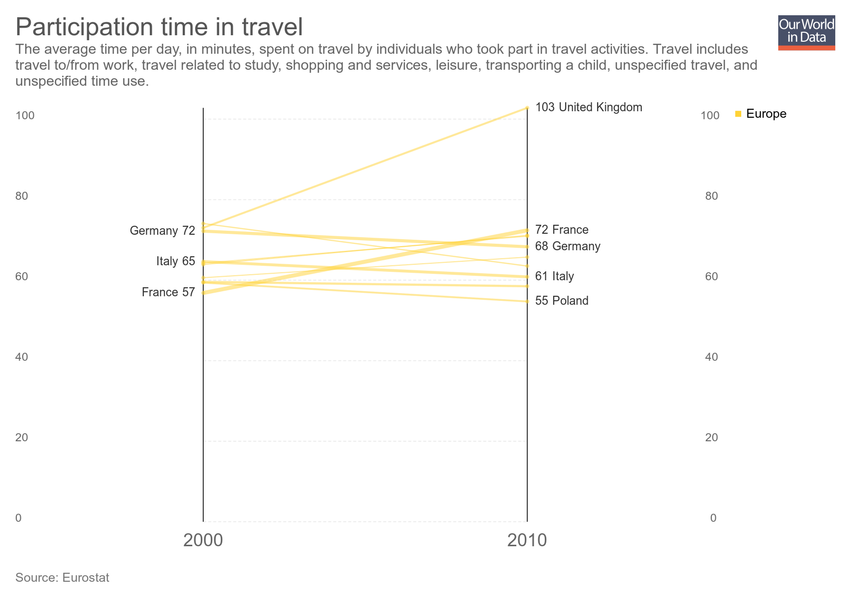
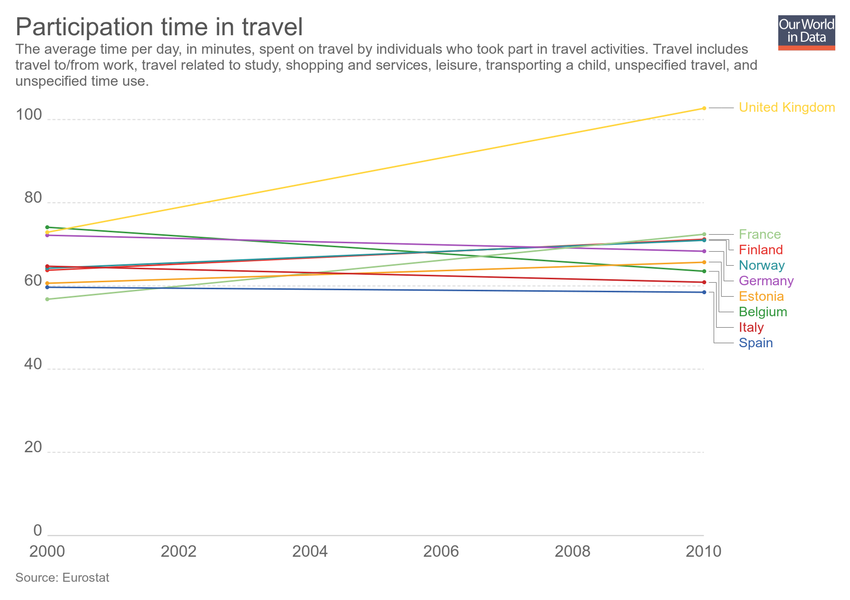
Updating chart participation-time-in-travel

diff --git a/grapher/participation-time-in-travel.html b/grapher/participation-time-in-travel.html
@@ -1,4 +1,4 @@
-<!doctype html><html><head><meta name="viewport" content="width=device-width, initial-scale=1" /><title>Participation time in travel - Our World in Data</title><meta name="description" content="The average time per day, in minutes, spent on travel by individuals who took part in travel activities. Travel includes travel to/from work, travel related to study, shopping and services, leisure, transporting a child, unspecified travel, and unspecified time use." /><link rel="canonical" href="https://ourworldindata.org/grapher/participation-time-in-travel" /><meta property="fb:app_id" content="1149943818390250" /><meta property="og:url" content="https://ourworldindata.org/grapher/participation-time-in-travel" /><meta property="og:title" content="Participation time in travel" /><meta property="og:description" content="The average time per day, in minutes, spent on travel by individuals who took part in travel activities. Travel includes travel to/from work, travel related to study, shopping and services, leisure, transporting a child, unspecified travel, and unspecified time use." /><meta property="og:image" content="https://ourworldindata.org/grapher/exports/participation-time-in-travel.png?v=4" /><meta property="og:image:width" content="850" /><meta property="og:image:height" content="600" /><meta property="og:site_name" content="Our World in Data" /><meta name="twitter:card" content="summary_large_image" /><meta name="twitter:site" content="@OurWorldInData" /><meta name="twitter:creator" content="@OurWorldInData" /><meta name="twitter:title" content="Participation time in travel" /><meta name="twitter:description" content="The average time per day, in minutes, spent on travel by individuals who took part in travel activities. Travel includes travel to/from work, travel related to study, shopping and services, leisure, transporting a child, unspecified travel, and unspecified time use." /><meta name="twitter:image" content="https://ourworldindata.org/grapher/exports/participation-time-in-travel.png?v=4" /><style>
+<!doctype html><html><head><meta name="viewport" content="width=device-width, initial-scale=1" /><title>Participation time in travel - Our World in Data</title><meta name="description" content="The average time per day, in minutes, spent on travel by individuals who took part in travel activities. Travel includes travel to/from work, travel related to study, shopping and services, leisure, transporting a child, unspecified travel, and unspecified time use." /><link rel="canonical" href="https://ourworldindata.org/grapher/participation-time-in-travel" /><meta property="fb:app_id" content="1149943818390250" /><meta property="og:url" content="https://ourworldindata.org/grapher/participation-time-in-travel" /><meta property="og:title" content="Participation time in travel" /><meta property="og:description" content="The average time per day, in minutes, spent on travel by individuals who took part in travel activities. Travel includes travel to/from work, travel related to study, shopping and services, leisure, transporting a child, unspecified travel, and unspecified time use." /><meta property="og:image" content="https://ourworldindata.org/grapher/exports/participation-time-in-travel.png?v=5" /><meta property="og:image:width" content="850" /><meta property="og:image:height" content="600" /><meta property="og:site_name" content="Our World in Data" /><meta name="twitter:card" content="summary_large_image" /><meta name="twitter:site" content="@OurWorldInData" /><meta name="twitter:creator" content="@OurWorldInData" /><meta name="twitter:title" content="Participation time in travel" /><meta name="twitter:description" content="The average time per day, in minutes, spent on travel by individuals who took part in travel activities. Travel includes travel to/from work, travel related to study, shopping and services, leisure, transporting a child, unspecified travel, and unspecified time use." /><meta name="twitter:image" content="https://ourworldindata.org/grapher/exports/participation-time-in-travel.png?v=5" /><style>
         html, body {
             height: 100%;
             margin: 0;
@@ -20,8 +20,8 @@
         }
     </style><noscript><style>
                     figure { display: none !important; }
-                </style></noscript><link rel="stylesheet" href="https://ourworldindata.org/grapher/assets/commons.bundle.b9f051796dbbbb7e5139.css" /><link rel="preload" href="/grapher/data/variables/97635+72+123.json?v=4" as="fetch" crossorigin /></head><body class="singleChart"><figure data-grapher-src="/grapher/participation-time-in-travel"></figure><noscript id="fallback"><img src="/grapher/exports/participation-time-in-travel.svg" /><p>Interactive visualization requires JavaScript</p></noscript><script src="https://cdn.polyfill.io/v2/polyfill.min.js?features=es6,fetch"></script><script src="https://ourworldindata.org/grapher/assets/commons.bundle.b9f051796dbbbb7e5139.js"></script><script src="https://ourworldindata.org/grapher/assets/charts.bundle.b9f051796dbbbb7e5139.js"></script><script>
-        var jsonConfig = {"id":2835,"map":{"projection":"World","colorSchemeLabels":[],"colorSchemeValues":[],"customNumericColors":[],"customCategoryColors":{},"customCategoryLabels":{},"customHiddenCategories":{}},"tab":"chart","slug":"participation-time-in-travel","type":"SlopeChart","title":"Participation time in travel","xAxis":{"scaleType":"linear"},"yAxis":{"min":0,"scaleType":"linear"},"version":4,"subtitle":"The average time per day, in minutes, spent on travel by individuals who took part in travel activities. Travel includes travel to/from work, travel related to study, shopping and services, leisure, transporting a child, unspecified travel, and unspecified time use.","hasMapTab":false,"stackMode":"absolute","dimensions":[{"display":{"numDecimalPlaces":0},"property":"y","variableId":97635},{"display":{},"property":"size","variableId":72},{"display":{},"property":"color","variableId":123}],"hasChartTab":true,"isPublished":true,"selectedData":[],"addCountryMode":"add-country"};
+                </style></noscript><link rel="stylesheet" href="https://ourworldindata.org/grapher/assets/commons.bundle.b9f051796dbbbb7e5139.css" /><link rel="preload" href="/grapher/data/variables/97635.json?v=5" as="fetch" crossorigin /></head><body class="singleChart"><figure data-grapher-src="/grapher/participation-time-in-travel"></figure><noscript id="fallback"><img src="/grapher/exports/participation-time-in-travel.svg" /><p>Interactive visualization requires JavaScript</p></noscript><script src="https://cdn.polyfill.io/v2/polyfill.min.js?features=es6,fetch"></script><script src="https://ourworldindata.org/grapher/assets/commons.bundle.b9f051796dbbbb7e5139.js"></script><script src="https://ourworldindata.org/grapher/assets/charts.bundle.b9f051796dbbbb7e5139.js"></script><script>
+        var jsonConfig = {"id":2835,"map":{"projection":"World","colorSchemeLabels":[],"colorSchemeValues":[],"customNumericColors":[],"customCategoryColors":{},"customCategoryLabels":{},"customHiddenCategories":{}},"tab":"chart","slug":"participation-time-in-travel","type":"LineChart","title":"Participation time in travel","xAxis":{"scaleType":"linear"},"yAxis":{"min":0,"scaleType":"linear"},"version":5,"subtitle":"The average time per day, in minutes, spent on travel by individuals who took part in travel activities. Travel includes travel to/from work, travel related to study, shopping and services, leisure, transporting a child, unspecified travel, and unspecified time use.","hasMapTab":false,"stackMode":"absolute","dimensions":[{"display":{"numDecimalPlaces":0},"property":"y","variableId":97635}],"hasChartTab":true,"isPublished":true,"selectedData":[{"index":0,"entityId":4},{"index":0,"entityId":155},{"index":0,"entityId":102},{"index":0,"entityId":6},{"index":0,"entityId":1},{"index":0,"entityId":3},{"index":0,"entityId":9},{"index":0,"entityId":156},{"index":0,"entityId":8}],"addCountryMode":"add-country"};
         var figure = document.getElementsByTagName("figure")[0];
         try {
             window.App = {};
